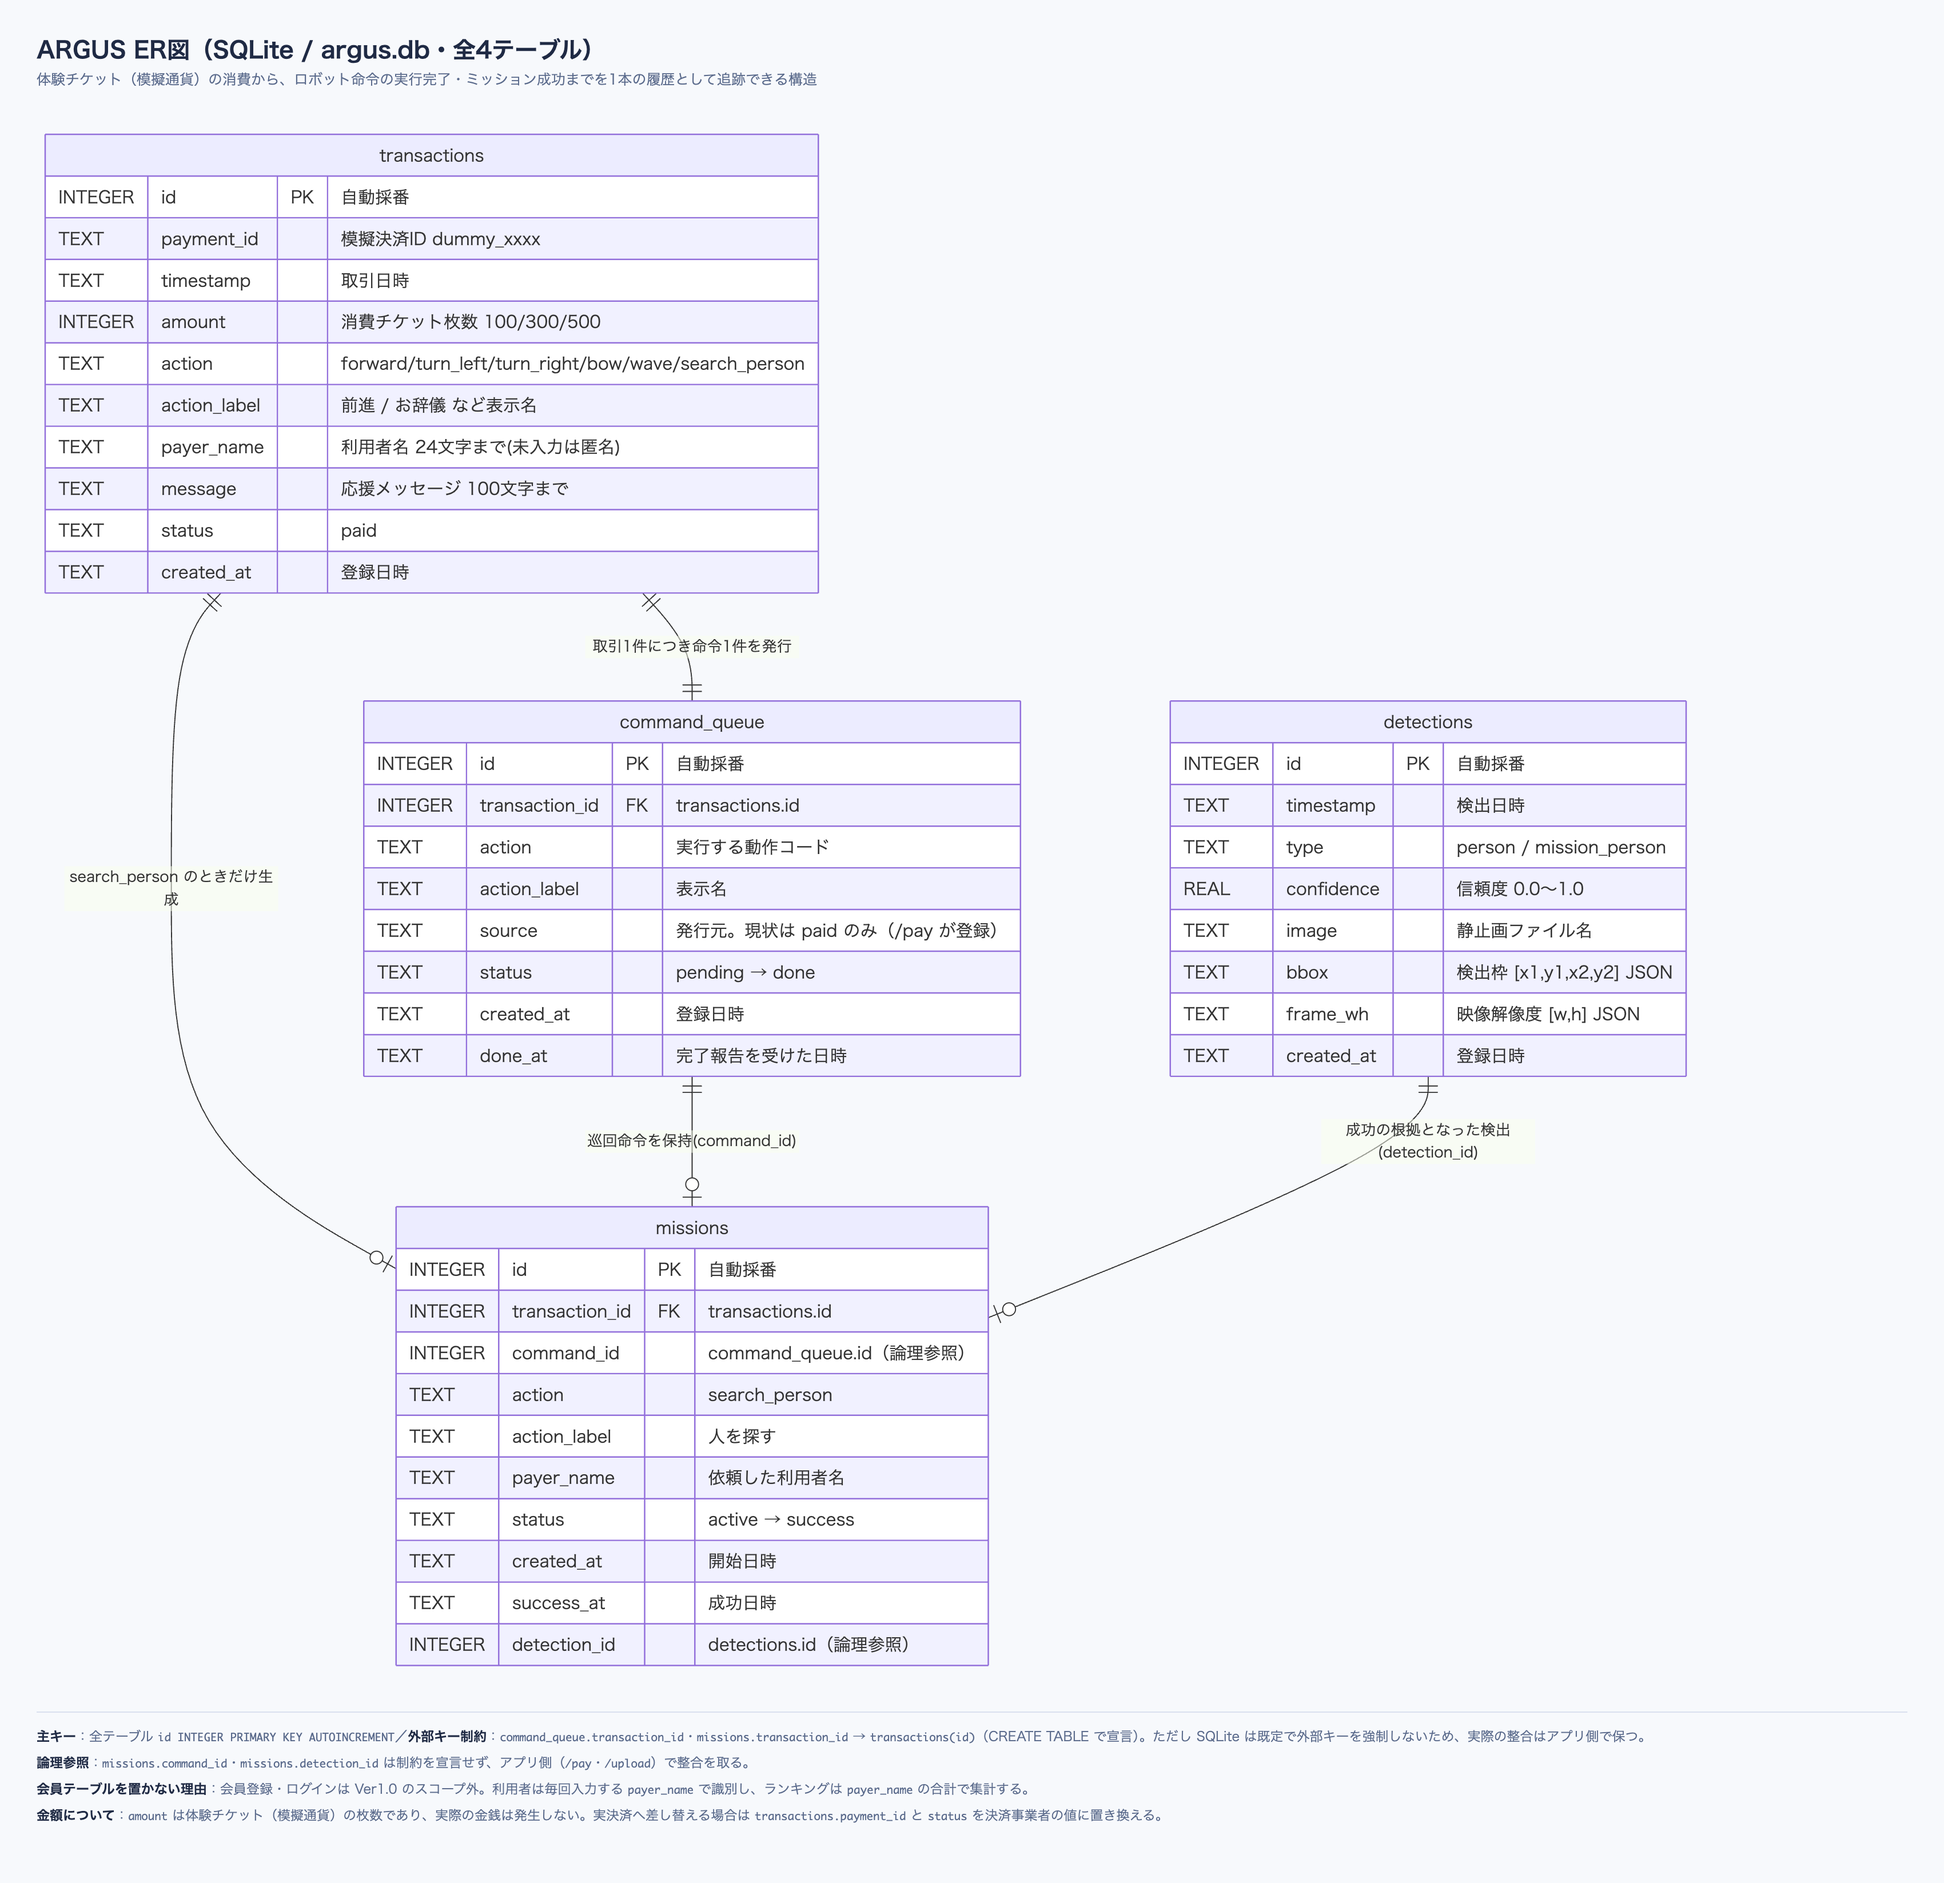
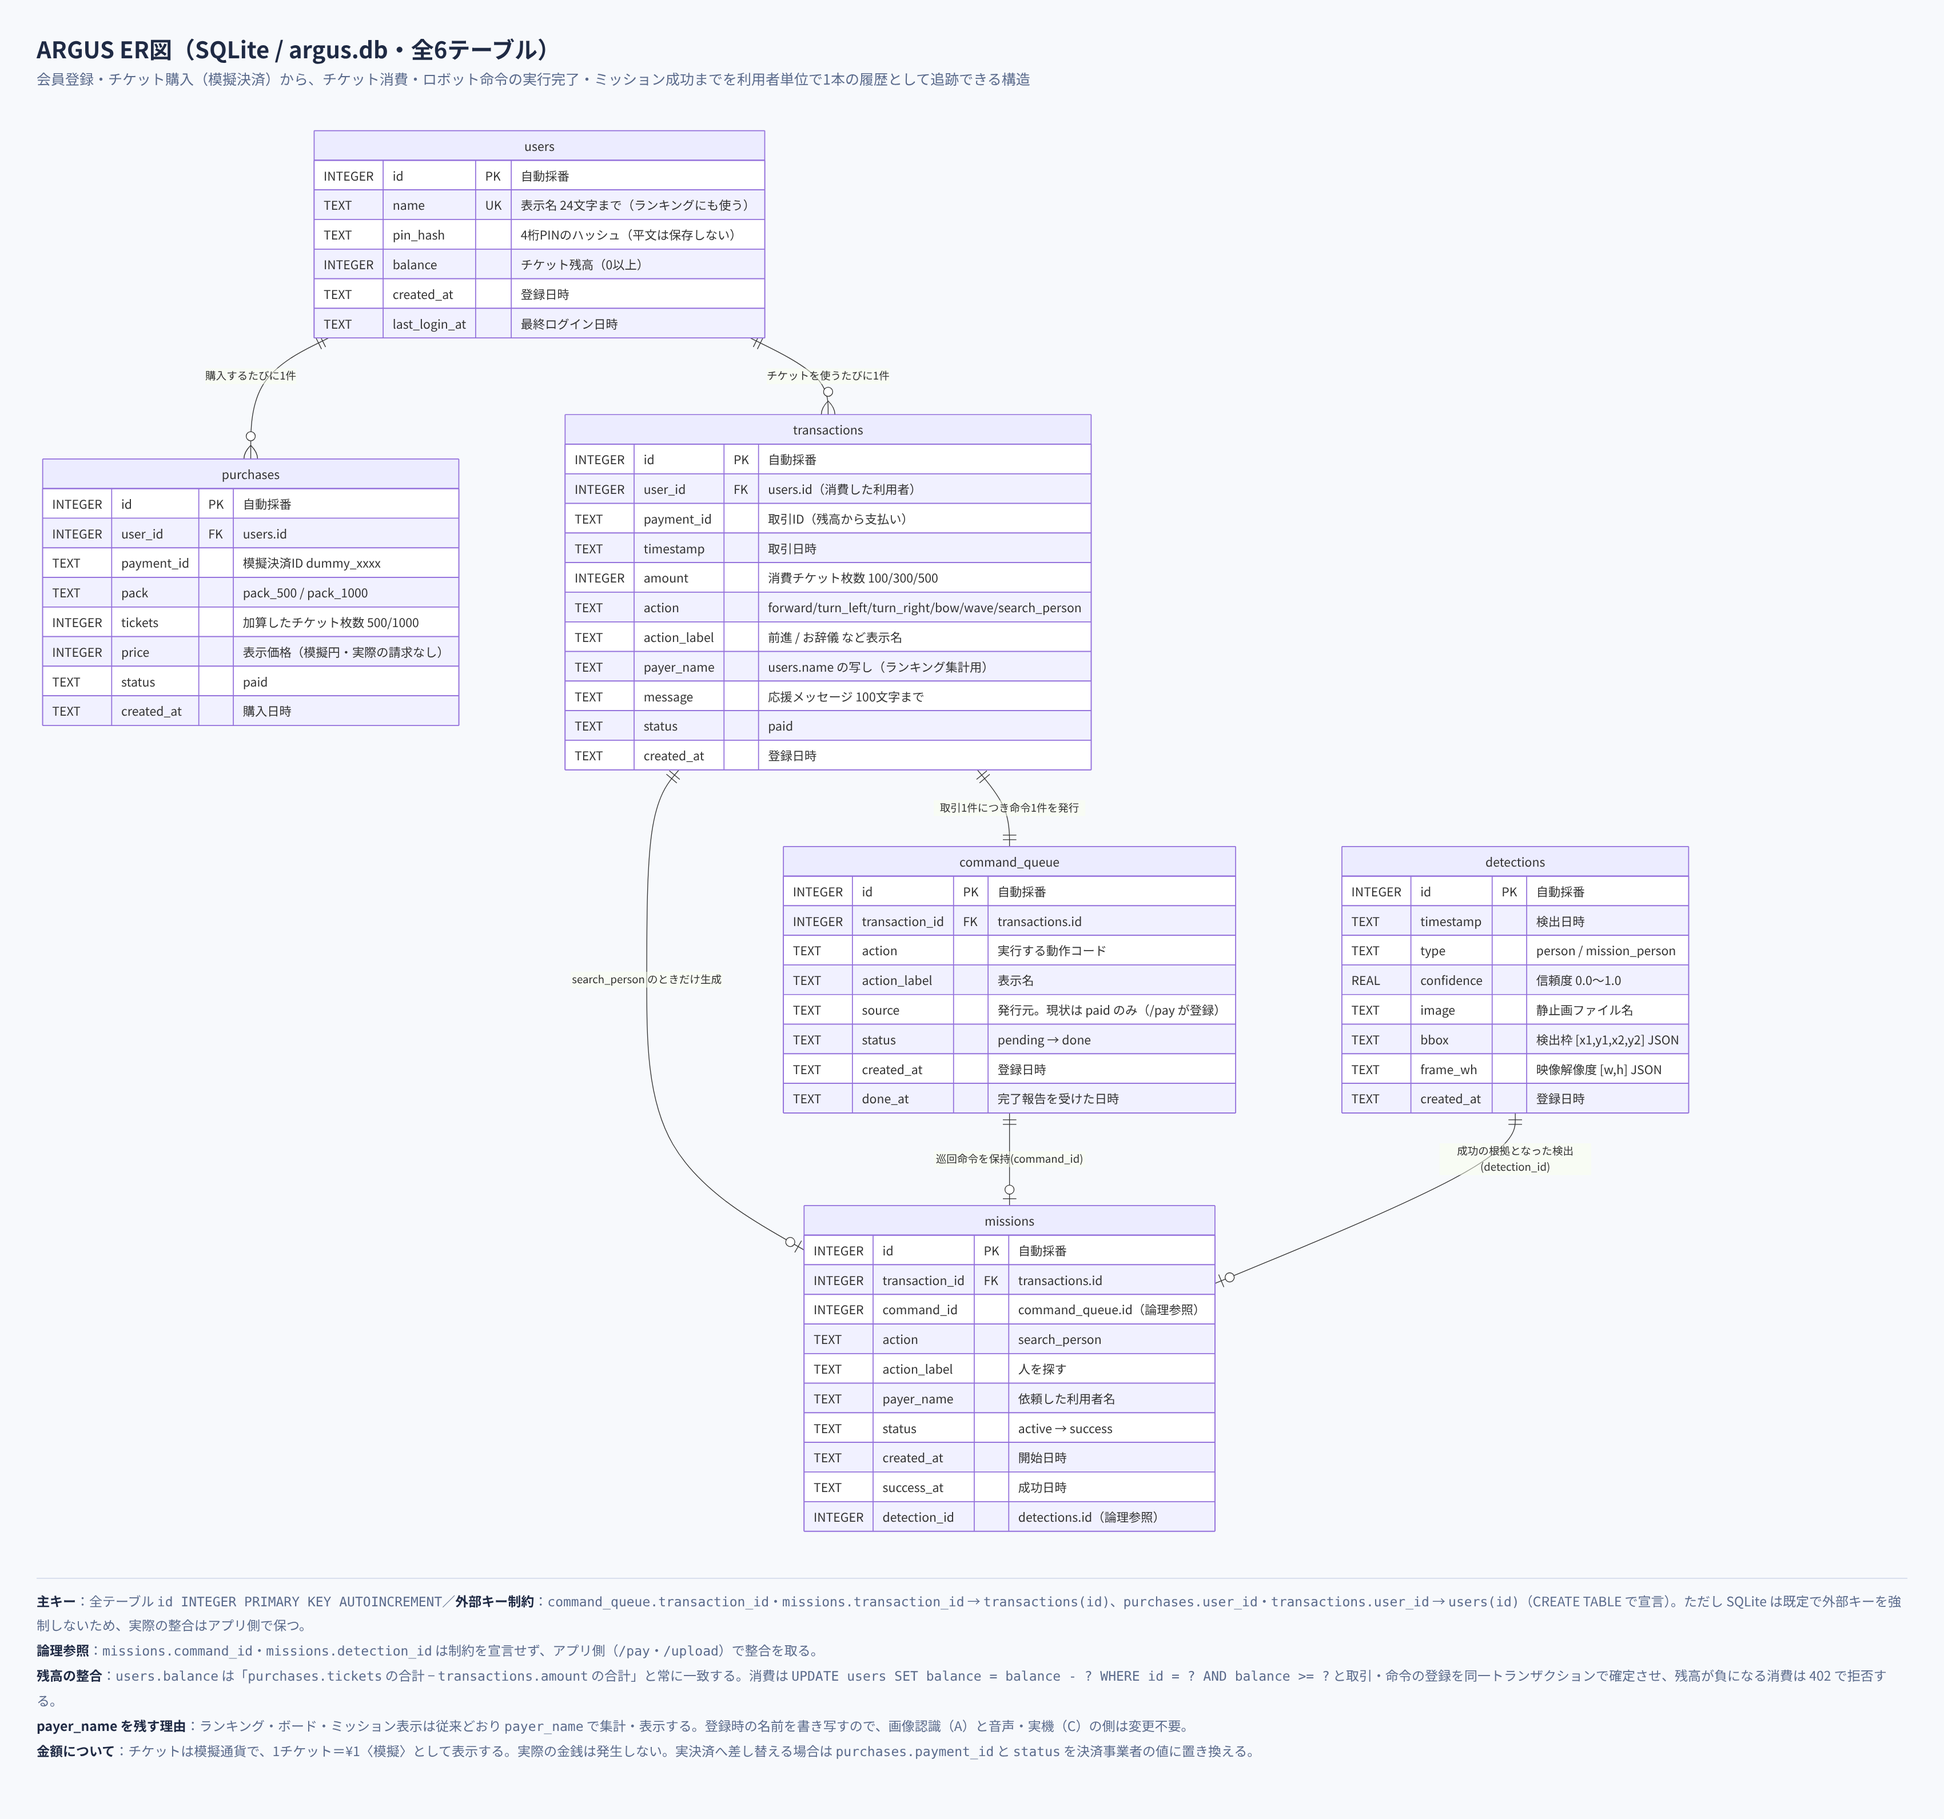
docs: add login and mock ticket purchase to requirements and design diagrams
Claude-Session: https://claude.ai/code/session_01QR2RGW9WX5JYinLu8nFvBo

Changed region(s): [[0.0, 0.0, 0.6235, 0.9645], [0.5924, 0.3734, 0.8729, 0.6534], [0.6235, 0.9023, 0.8418, 0.9334]]

diff --git a/docs/課題No06_設計/ソース/flow.html b/docs/課題No06_設計/ソース/flow.html
@@ -9,17 +9,23 @@
   #d { display:inline-block; }
 </style></head><body>
 <p class="title">ARGUS 画面遷移図（Ver1.0 / HEW展示版）</p>
-<p class="sub">画面は3つ。観客の操作は公開ページ1枚で完結し（ページ遷移なし・fetch で結果だけ差し替え）、その結果は 公開ページのボード・ランキング画面・管理ダッシュボード の3か所に現れる。</p>
+<p class="sub">画面は3つ。観客のログイン・チケット購入・操作は公開ページ1枚の中のパネルで完結し（ページ遷移なし・fetch で結果だけ差し替え）、その結果は 公開ページのボード・ランキング画面・管理ダッシュボード の3か所に現れる。</p>
 <div id="d"><pre class="mermaid">
 flowchart TD
 
   subgraph AUD["観客：スマートフォン（iOS Safari / Android Chrome・縦画面）"]
     direction TB
-    P1["<b>公開ページ</b> /<br/>ライブ映像＋AI検出枠／体験チケット操作／サポーターボード"]
-    S1["名前を入力（任意・24文字まで）"]
+    P1["<b>公開ページ</b> /（未ログイン）<br/>ライブ映像＋AI検出枠／サポーターボード／「ログインして操作する」"]
+    L1["<b>ログイン・新規登録パネル</b>（タブ切替）<br/>名前（24文字まで）＋ PIN（数字4桁）"]
+    L2{"POST /auth/login ・ /auth/register<br/>入力検証・PIN照合・連打制御"}
+    P1B["<b>公開ページ</b> /（ログイン中）<br/>名前とチケット残高を表示／アクションボタン<br/>「チケットを購入」／「体験を終える」"]
+    B1["<b>チケット購入パネル</b><br/>500チケット ¥500〈模擬〉／1,000チケット ¥1,000〈模擬〉<br/>※模擬決済・実際の請求はありません"]
+    B2["購入確認ダイアログ<br/>内容と模擬価格を確認して「購入を確定する」"]
+    B3{"POST /purchase<br/>模擬決済 → 購入記録 → 残高加算"}
+    B4["完了メッセージを表示<br/>500チケットを追加しました（残高を即時更新）"]
     S2["アクションボタンを押す<br/>前進 100 ／ 左旋回 100 ／ 右旋回 100<br/>お辞儀 300 ／ 手を振る 300 ／ 人を探す 500"]
-    S3{"POST /pay<br/>アクション検証・連打制御"}
-    S4["受付メッセージを表示<br/>○○さんの「△△」を受け付けました。<br/>まもなく実行します。"]
+    S3{"POST /pay<br/>ログイン確認・残高確認・アクション検証・連打制御"}
+    S4["受付メッセージを表示<br/>○○さんの「△△」を受け付けました。<br/>まもなく実行します。（残高を即時更新）"]
     S5["エラーメッセージを表示<br/>400：存在しないアクション・文字数超過<br/>429：操作が速すぎます・混み合っています<br/>通信断：通信エラーが発生しました"]
   end
 
@@ -30,7 +36,7 @@ flowchart TD
 
   subgraph OPS["運営：PC（Chrome）"]
     direction TB
-    P3["<b>管理ダッシュボード</b> /dashboard<br/>サマリ3種／ロボット命令キュー／取引履歴／AI検出履歴"]
+    P3["<b>管理ダッシュボード</b> /dashboard<br/>サマリ／ロボット命令キュー／購入履歴／取引履歴／AI検出履歴"]
     P4["/dummy/detection<br/>動作確認用のダミー検出を1件登録"]
   end
 
@@ -43,11 +49,22 @@ flowchart TD
     A5["GET /ranking（ページ全体を15秒ごとに再読込）"]
   end
 
-  P1 --> S1 --> S2 --> S3
+  P1 -- "ログインして操作する" --> L1 --> L2
+  L2 -- "200 OK（セッション開始）" --> P1B
+  L2 -- "400 / 401 / 429：エラーを表示して再入力" --> L1
+
+  P1B --> S2 --> S3
   S3 -- "200 OK" --> S4
   S3 -- "400 / 429 / 通信断" --> S5
-  S4 -- "ボードを即時更新（画面遷移なし）" --> P1
-  S5 -- "同じ画面のまま再操作できる" --> P1
+  S4 -- "ボードと残高を即時更新" --> P1B
+  S5 -- "同じ画面のまま再操作" --> P1B
+  S3 -- "402 残高不足" --> B1
+
+  P1B -- "チケットを購入" --> B1 --> B2 --> B3
+  B3 -- "200 OK" --> B4
+  B4 -- "パネルを閉じる" --> P1B
+
+  P1B -- "体験を終える／無操作60秒<br/>POST /auth/logout" --> P1
 
   P1 -. "映像を受信" .-> A1
   P1 -. "検出枠を受信" .-> A2
@@ -55,6 +72,7 @@ flowchart TD
   P1 -. "成功演出（今後の実装）" .-> A4
   P2 -. "15秒ごとに自動更新" .-> A5
 
+  B4 == "購入として記録され、運営画面に現れる" ==> P3
   S4 == "取引・命令として記録され、運営画面に現れる" ==> P3
   S4 == "ランキングに反映される" ==> P2
   P3 --> P4
@@ -64,14 +82,15 @@ flowchart TD
   classDef state fill:#ffffff,stroke:#9aa7c7,color:#1f2a44;
   classDef api fill:#eef6f1,stroke:#7fae94,color:#1f3a2a;
   classDef err fill:#fdeeee,stroke:#d89a9a,color:#5b2020;
-  class P1,P2,P3,P4 page;
-  class S1,S2,S3,S4 state;
+  class P1,P1B,L1,B1,P2,P3,P4 page;
+  class L2,B2,B3,B4,S2,S3,S4 state;
   class S5 err;
   class A1,A2,A3,A4,A5 api;
 </pre></div>
 <p class="note">
 <b>画面遷移が起きない箇所</b>：体験チケットの操作は <code>fetch("/pay")</code> で送り、結果メッセージとサポーターボードだけを書き換える。ページを再読込するとライブ映像（MJPEG）が切れるため、意図的に遷移させない。<br>
-<b>ログイン画面がない理由</b>：会員登録・ログインは Ver1.0 のスコープ外。観客はその場で名前を入力するだけで参加でき、未入力のときは「匿名」として記録する。<br>
+<b>ログイン・購入をパネルにした理由</b>：ページを再読込・遷移するとライブ映像（MJPEG）が切れるため、ログイン・チケット購入も公開ページ上のパネルで行い、<code>fetch</code> で結果だけを反映する。ログイン状態はセッション（Cookie）で保持する。<br>
+<b>共用端末への配慮</b>：展示は運営が用意した1台のスマホで行うため、「体験を終える」または無操作60秒で自動ログアウトし、次の観客に前の利用者の名前と残高を残さない。<br>
 <b>公開範囲</b>：3画面とも会場ローカル LAN のみで提供し、インターネットには公開しない。<code>/dashboard</code> と <code>/dummy/detection</code> は運営端末からのみ開く。
 </p>
 <script src="https://cdn.jsdelivr.net/npm/mermaid@11/dist/mermaid.min.js"></script>

diff --git a/docs/課題No06_設計/ソース/er.html b/docs/課題No06_設計/ソース/er.html
@@ -9,23 +9,46 @@
   #d { display:inline-block; }
 </style>
 </head><body>
-<p class="title">ARGUS ER図（SQLite / argus.db・全4テーブル）</p>
-<p class="sub">体験チケット（模擬通貨）の消費から、ロボット命令の実行完了・ミッション成功までを1本の履歴として追跡できる構造</p>
+<p class="title">ARGUS ER図（SQLite / argus.db・全6テーブル）</p>
+<p class="sub">会員登録・チケット購入（模擬決済）から、チケット消費・ロボット命令の実行完了・ミッション成功までを利用者単位で1本の履歴として追跡できる構造</p>
 <div id="d"><pre class="mermaid">
 erDiagram
+    users        ||--o{ purchases     : "購入するたびに1件"
+    users        ||--o{ transactions  : "チケットを使うたびに1件"
     transactions ||--|| command_queue : "取引1件につき命令1件を発行"
     transactions ||--o| missions      : "search_person のときだけ生成"
     command_queue ||--o| missions     : "巡回命令を保持(command_id)"
     detections   ||--o| missions      : "成功の根拠となった検出(detection_id)"
 
+    users {
+        INTEGER id PK "自動採番"
+        TEXT name UK "表示名 24文字まで（ランキングにも使う）"
+        TEXT pin_hash "4桁PINのハッシュ（平文は保存しない）"
+        INTEGER balance "チケット残高（0以上）"
+        TEXT created_at "登録日時"
+        TEXT last_login_at "最終ログイン日時"
+    }
+
+    purchases {
+        INTEGER id PK "自動採番"
+        INTEGER user_id FK "users.id"
+        TEXT payment_id "模擬決済ID dummy_xxxx"
+        TEXT pack "pack_500 / pack_1000"
+        INTEGER tickets "加算したチケット枚数 500/1000"
+        INTEGER price "表示価格（模擬円・実際の請求なし）"
+        TEXT status "paid"
+        TEXT created_at "購入日時"
+    }
+
     transactions {
         INTEGER id PK "自動採番"
-        TEXT payment_id "模擬決済ID dummy_xxxx"
+        INTEGER user_id FK "users.id（消費した利用者）"
+        TEXT payment_id "取引ID（残高から支払い）"
         TEXT timestamp "取引日時"
         INTEGER amount "消費チケット枚数 100/300/500"
         TEXT action "forward/turn_left/turn_right/bow/wave/search_person"
         TEXT action_label "前進 / お辞儀 など表示名"
-        TEXT payer_name "利用者名 24文字まで(未入力は匿名)"
+        TEXT payer_name "users.name の写し（ランキング集計用）"
         TEXT message "応援メッセージ 100文字まで"
         TEXT status "paid"
         TEXT created_at "登録日時"
@@ -67,10 +90,11 @@ erDiagram
     }
 </pre></div>
 <p class="note">
-<b>主キー</b>：全テーブル <code>id INTEGER PRIMARY KEY AUTOINCREMENT</code>／<b>外部キー制約</b>：<code>command_queue.transaction_id</code>・<code>missions.transaction_id</code> → <code>transactions(id)</code>（CREATE TABLE で宣言）。ただし SQLite は既定で外部キーを強制しないため、実際の整合はアプリ側で保つ。<br>
+<b>主キー</b>：全テーブル <code>id INTEGER PRIMARY KEY AUTOINCREMENT</code>／<b>外部キー制約</b>：<code>command_queue.transaction_id</code>・<code>missions.transaction_id</code> → <code>transactions(id)</code>、<code>purchases.user_id</code>・<code>transactions.user_id</code> → <code>users(id)</code>（CREATE TABLE で宣言）。ただし SQLite は既定で外部キーを強制しないため、実際の整合はアプリ側で保つ。<br>
 <b>論理参照</b>：<code>missions.command_id</code>・<code>missions.detection_id</code> は制約を宣言せず、アプリ側（<code>/pay</code>・<code>/upload</code>）で整合を取る。<br>
-<b>会員テーブルを置かない理由</b>：会員登録・ログインは Ver1.0 のスコープ外。利用者は毎回入力する <code>payer_name</code> で識別し、ランキングは <code>payer_name</code> の合計で集計する。<br>
-<b>金額について</b>：<code>amount</code> は体験チケット（模擬通貨）の枚数であり、実際の金銭は発生しない。実決済へ差し替える場合は <code>transactions.payment_id</code> と <code>status</code> を決済事業者の値に置き換える。
+<b>残高の整合</b>：<code>users.balance</code> は「<code>purchases.tickets</code> の合計 − <code>transactions.amount</code> の合計」と常に一致する。消費は <code>UPDATE users SET balance = balance - ? WHERE id = ? AND balance &gt;= ?</code> と取引・命令の登録を同一トランザクションで確定させ、残高が負になる消費は 402 で拒否する。<br>
+<b>payer_name を残す理由</b>：ランキング・ボード・ミッション表示は従来どおり <code>payer_name</code> で集計・表示する。登録時の名前を書き写すので、画像認識（A）と音声・実機（C）の側は変更不要。<br>
+<b>金額について</b>：チケットは模擬通貨で、1チケット＝¥1〈模擬〉として表示する。実際の金銭は発生しない。実決済へ差し替える場合は <code>purchases.payment_id</code> と <code>status</code> を決済事業者の値に置き換える。
 </p>
 <script src="https://cdn.jsdelivr.net/npm/mermaid@11/dist/mermaid.min.js"></script>
 <script>
